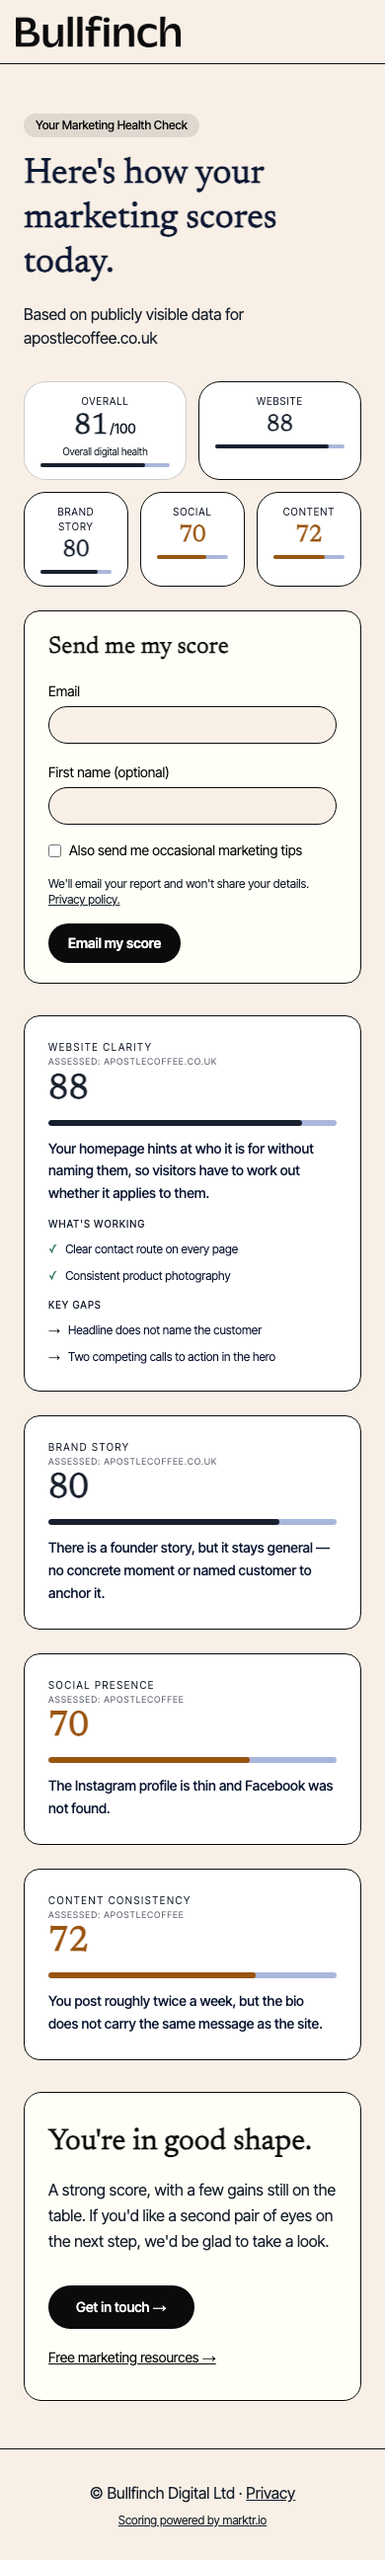
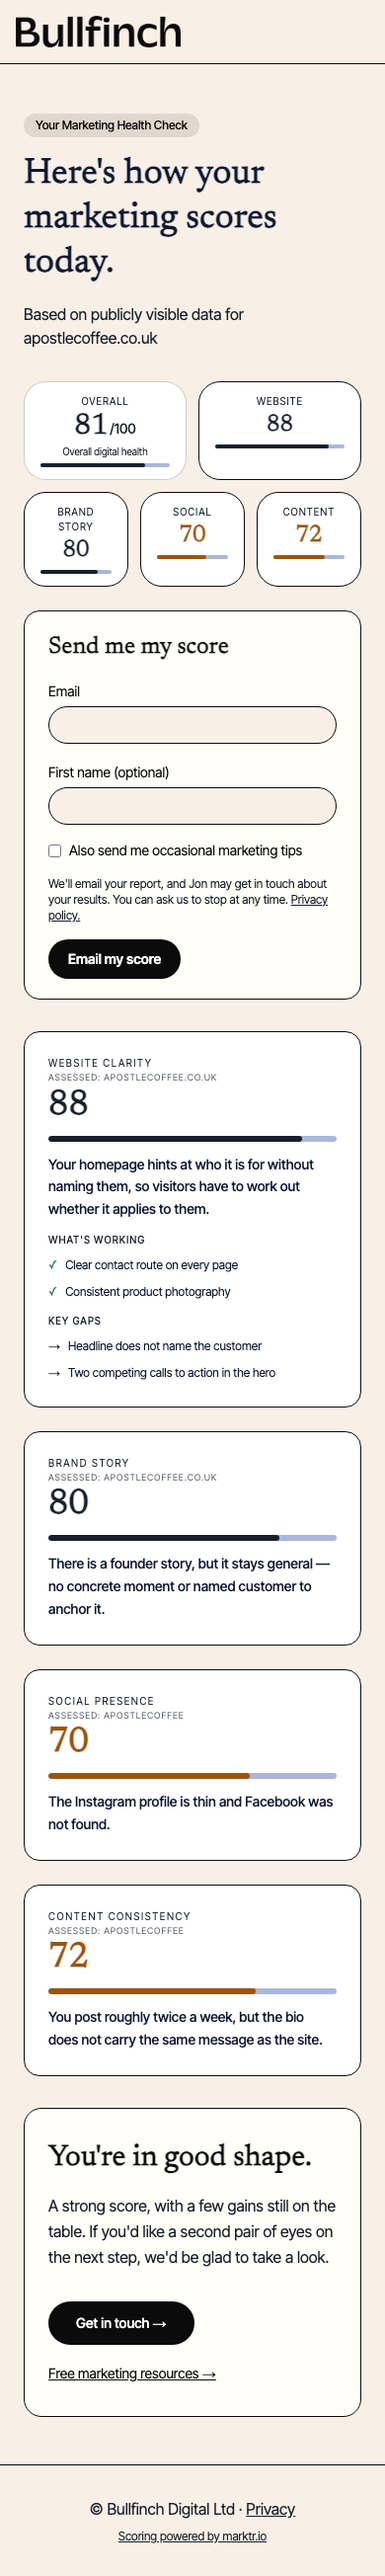
Stop repeating the re-send note for an address that already received the report.
Say Jon may get in touch, and delete health check reports after 24 months.

diff --git a/src/lib/reportLead.capture.test.ts b/src/lib/reportLead.capture.test.ts
@@ -6,6 +6,7 @@ import {
   businessDisplayName,
   captureFailureBody,
   decideCapture,
+  emailAlreadySent,
   emailContactUrl,
   emailMarktrUrl,
   isReportLeadOrigin,
@@ -39,6 +40,7 @@ const baseDecision = {
   leadEmail: null as string | null,
   recentReportSends: 0,
   recentIpSends: 0,
+  successfulEmails: [] as string[],
 };
 
 function visitor(overrides: Partial<VisitorEmailInput> = {}): VisitorEmailInput {
@@ -79,6 +81,38 @@ describe("capture decision", () => {
       recentReportSends: 1,
     });
     expect(newAddress).toEqual({ ok: true, send: true, setLead: false, internal: "resend" });
+  });
+
+  it("sends the re-send note once for hello+typo@ then hello@ then hello@ again", () => {
+    const typo = "hello+typo@bullfinchdigital.com";
+    const corrected = "hello@bullfinchdigital.com";
+
+    const first = decideCapture({
+      ...baseDecision,
+      email: typo,
+      successfulEmails: [],
+    });
+    expect(first).toEqual({ ok: true, send: true, setLead: true, internal: "full" });
+
+    const second = decideCapture({
+      ...baseDecision,
+      leadEmail: typo,
+      email: corrected,
+      recentReportSends: 1,
+      successfulEmails: [typo],
+    });
+    expect(second).toEqual({ ok: true, send: true, setLead: false, internal: "resend" });
+    expect(emailAlreadySent(corrected, [typo])).toBe(false);
+
+    const third = decideCapture({
+      ...baseDecision,
+      leadEmail: typo,
+      email: "  Hello@bullfinchdigital.com  ",
+      recentReportSends: 2,
+      successfulEmails: [typo, corrected],
+    });
+    expect(third).toEqual({ ok: true, send: true, setLead: false, internal: "none" });
+    expect(emailAlreadySent("  Hello@bullfinchdigital.com  ", [corrected])).toBe(true);
   });
 
   it("allows three sends per report per hour and throttles the fourth", () => {
@@ -156,6 +190,16 @@ describe("capture decision", () => {
 
 describe("score email templates", () => {
   const copy = editionConfig.bullfinch.scoreEmail!;
+
+  it("states that Jon may get in touch, with the privacy policy linked", () => {
+    const card = editionConfig.bullfinch.sendScore;
+    expect(card?.heading).toBe("Send me my score");
+    expect(card?.marketingOptIn).toBe("Also send me occasional marketing tips");
+    expect(`${card?.consent} ${card?.privacyLabel}`).toBe(
+      "We'll email your report, and Jon may get in touch about your results. You can ask us to stop at any time. Privacy policy.",
+    );
+    expect(editionConfig.bullfinch.privacyUrl).toBe("https://bullfinchdigital.com/privacy/");
+  });
 
   it("keeps the copy on the Bullfinch edition only", () => {
     expect(editionConfig.marktr.sendScore).toBeUndefined();
@@ -249,6 +293,7 @@ describe("score email templates", () => {
     expect(note.text).toContain("Website: https://example.com");
     expect(note.text).toContain("Email: ada@example.com");
     expect(note.text).toContain("Marketing opt-in: no");
+    expect(note.text).toContain("Follow-up: OK to contact (submitted email)");
     expect(note.text).toContain("Social score: Not checked");
     expect(note.text).toContain("UTMs: utm_campaign=phase4-test, utm_source=healthcheck");
     expect(note.text).not.toContain("Based on your website and story");
@@ -282,6 +327,7 @@ describe("score email templates", () => {
     });
     expect(note.text).toBe("Phase 4 test 3: report re-sent to a new address other@example.com");
     expect(note.subject).toBe(note.text);
+    expect(note.text).not.toContain("Follow-up:");
     const fallback = renderResendNote({
       businessName: null,
       domain: "example.com",

diff --git a/supabase/functions/_shared/reportLeadCapture.ts b/supabase/functions/_shared/reportLeadCapture.ts
@@ -44,6 +44,16 @@ export function businessDisplayName(stored: string | null | undefined, domain: s
   return storedBusinessName(stored) || domain;
 }
 
+export function normaliseLeadEmail(email: string): string {
+  return email.trim().toLowerCase();
+}
+
+/** True when this report already has a successful send to the same address. */
+export function emailAlreadySent(email: string, successfulEmails: readonly string[]): boolean {
+  const entered = normaliseLeadEmail(email);
+  return successfulEmails.some((value) => normaliseLeadEmail(value) === entered);
+}
+
 export type CaptureInternal = "full" | "resend" | "none";
 
 export type CaptureDecision =
@@ -58,25 +68,28 @@ export function decideCapture(opts: {
   leadEmail: string | null;
   recentReportSends: number;
   recentIpSends: number;
+  /** Addresses with ok = true on health_check_report_sends for this report. */
+  successfulEmails: readonly string[];
 }): CaptureDecision {
   if (!opts.originAllowed) return { ok: false, status: 403, error: "origin_not_allowed" };
   if (!opts.turnstileOk) return { ok: false, status: 403, error: "turnstile_failed" };
   if (!opts.reportFound) return { ok: false, status: 404, error: "not_found" };
-  if (!isValidLeadEmail(opts.email)) return { ok: false, status: 400, error: "email_invalid" };
+  const entered = normaliseLeadEmail(opts.email);
+  if (!isValidLeadEmail(entered)) return { ok: false, status: 400, error: "email_invalid" };
   if (
     opts.recentReportSends >= SENDS_PER_REPORT_PER_HOUR ||
     opts.recentIpSends >= SENDS_PER_IP_PER_HOUR
   ) {
     return { ok: false, status: 429, error: "throttled" };
   }
-  const entered = opts.email.trim().toLowerCase();
-  const first = opts.leadEmail?.trim().toLowerCase() ?? "";
+  const first = opts.leadEmail ? normaliseLeadEmail(opts.leadEmail) : "";
   if (!first) return { ok: true, send: true, setLead: true, internal: "full" };
+  const alreadySent = emailAlreadySent(entered, opts.successfulEmails);
   return {
     ok: true,
     send: true,
     setLead: false,
-    internal: first === entered ? "none" : "resend",
+    internal: alreadySent || first === entered ? "none" : "resend",
   };
 }
 

diff --git a/src/lib/reportRetention.test.ts b/src/lib/reportRetention.test.ts
@@ -1,0 +1,44 @@
+import { readFileSync } from "node:fs";
+import path from "node:path";
+import { describe, expect, it } from "vitest";
+import {
+  reportIdsPastRetention,
+  reportRetentionCutoff,
+} from "../../supabase/functions/_shared/reportRetention.ts";
+
+describe("24 month report retention", () => {
+  const now = new Date("2026-10-02T09:00:00.000Z");
+
+  it("deletes a report only once it is older than 24 months", () => {
+    expect(reportRetentionCutoff(now).toISOString()).toBe("2024-10-02T09:00:00.000Z");
+    expect(
+      reportIdsPastRetention(
+        [
+          { id: "old", createdAt: "2024-10-02T08:59:59.000Z" },
+          { id: "boundary", createdAt: "2024-10-02T09:00:00.000Z" },
+          { id: "newer", createdAt: "2024-10-03T09:00:00.000Z" },
+          { id: "blank", createdAt: "not-a-date" },
+        ],
+        now,
+      ),
+    ).toEqual(["old"]);
+  });
+
+  it("schedules a daily delete that logs only the count and cascades sends", () => {
+    const sql = readFileSync(
+      path.join(process.cwd(), "supabase/migrations/20261002091500_health_check_report_retention.sql"),
+      "utf8",
+    );
+    const sends = readFileSync(
+      path.join(process.cwd(), "supabase/migrations/20261001220000_health_check_report_sends.sql"),
+      "utf8",
+    );
+    expect(sql).toContain("DELETE FROM public.health_check_reports");
+    expect(sql).toContain("created_at < now() - interval '24 months'");
+    expect(sql).toContain("RAISE LOG 'health_check_reports retention deleted %', deleted_count");
+    expect(sql).toContain("'purge-expired-health-check-reports'");
+    expect(sql).toContain("'15 3 * * *'");
+    expect(sql).not.toMatch(/lead_email|public_token|client_ip|lead_business/);
+    expect(sends).toContain("ON DELETE CASCADE");
+  });
+});

diff --git a/supabase/functions/capture-report-lead/index.ts b/supabase/functions/capture-report-lead/index.ts
@@ -63,6 +63,16 @@ function scoreNumber(value: unknown): number | null {
   return typeof value === "number" && Number.isFinite(value) ? value : null;
 }
 
+async function successfulSendEmails(reportId: string): Promise<string[] | null> {
+  const { data, error } = await supabase
+    .from("health_check_report_sends")
+    .select("email")
+    .eq("report_id", reportId)
+    .eq("ok", true);
+  if (error) return null;
+  return (data ?? []).map((row: { email?: string | null }) => row.email ?? "");
+}
+
 async function countRecentSends(
   column: "report_id" | "client_ip",
   value: string,
@@ -115,7 +125,8 @@ serve(async (req) => {
     const since = new Date(Date.now() - SEND_WINDOW_MS).toISOString();
     const recentReportSends = row ? await countRecentSends("report_id", row.id, since) : 0;
     const recentIpSends = row && clientIp ? await countRecentSends("client_ip", clientIp, since) : 0;
-    if (recentReportSends === null || recentIpSends === null) {
+    const successfulEmails = row ? await successfulSendEmails(row.id) : [];
+    if (recentReportSends === null || recentIpSends === null || successfulEmails === null) {
       console.error("capture-report-lead send count failed");
       return json({ error: "server_error" }, 500);
     }
@@ -128,6 +139,7 @@ serve(async (req) => {
       leadEmail: row?.lead_email ?? null,
       recentReportSends,
       recentIpSends,
+      successfulEmails,
     });
 
     if (!decision.ok) {

diff --git a/supabase/functions/_shared/reportLeadEmail.ts b/supabase/functions/_shared/reportLeadEmail.ts
@@ -285,6 +285,7 @@ export function renderInternalLeadEmail(
     `Email: ${input.email}`,
     `First name: ${input.firstName?.trim() || "—"}`,
     `Marketing opt-in: ${input.marketingOptIn ? "yes" : "no"}`,
+    "Follow-up: OK to contact (submitted email)",
     `Website score: ${scoreText(input.website, false, copy)}`,
     `Brand story score: ${scoreText(input.brandStory, false, copy)}`,
     `Social score: ${scoreText(input.social, input.socialNotChecked, copy)}`,
@@ -304,7 +305,7 @@ export function renderInternalLeadEmail(
   };
 }
 
-/** One line for a later send to an address other than the first one on record. */
+/** One line the first time a later send goes to an address this report has not already reached. */
 export function renderResendNote(input: {
   businessName: string | null;
   domain: string;

diff --git a/scripts/visual-check.ts b/scripts/visual-check.ts
@@ -644,6 +644,15 @@ async function captureBullfinch(
         }
       }
       await page.getByRole("heading", { name: "Send me my score" }).waitFor();
+      await page
+        .getByText(
+          "We'll email your report, and Jon may get in touch about your results. You can ask us to stop at any time.",
+        )
+        .waitFor();
+      const policyHref = await page.getByRole("link", { name: "Privacy policy." }).getAttribute("href");
+      if (policyHref !== "https://bullfinchdigital.com/privacy/") {
+        throw new Error(`Send-score privacy link was ${policyHref}`);
+      }
       const tips = page.getByRole("checkbox", { name: "Also send me occasional marketing tips" });
       if (await tips.isChecked()) {
         throw new Error("Send-score marketing checkbox should start unticked");

diff --git a/supabase/functions/_shared/reportRetention.ts b/supabase/functions/_shared/reportRetention.ts
@@ -1,0 +1,24 @@
+export const REPORT_RETENTION_MONTHS = 24;
+
+/**
+ * Cutoff matching `now() - interval '24 months'` for dates the target month can hold.
+ * A report is due when its created_at is strictly earlier than this instant.
+ */
+export function reportRetentionCutoff(now: Date): Date {
+  const cutoff = new Date(now.getTime());
+  cutoff.setUTCMonth(cutoff.getUTCMonth() - REPORT_RETENTION_MONTHS);
+  return cutoff;
+}
+
+export function reportIdsPastRetention(
+  rows: readonly { id: string; createdAt: string }[],
+  now: Date,
+): string[] {
+  const cutoffMs = reportRetentionCutoff(now).getTime();
+  return rows
+    .filter((row) => {
+      const created = Date.parse(row.createdAt);
+      return !Number.isNaN(created) && created < cutoffMs;
+    })
+    .map((row) => row.id);
+}

diff --git a/src/lib/editionConfig.ts b/src/lib/editionConfig.ts
@@ -221,7 +221,8 @@ export const editionConfig: Record<Edition, EditionConfig> = {
       emailLabel: "Email",
       firstNameLabel: "First name (optional)",
       marketingOptIn: "Also send me occasional marketing tips",
-      consent: "We'll email your report and won't share your details.",
+      consent:
+        "We'll email your report, and Jon may get in touch about your results. You can ask us to stop at any time.",
       privacyLabel: "Privacy policy.",
       button: "Email my score",
       checking: "Checking…",
